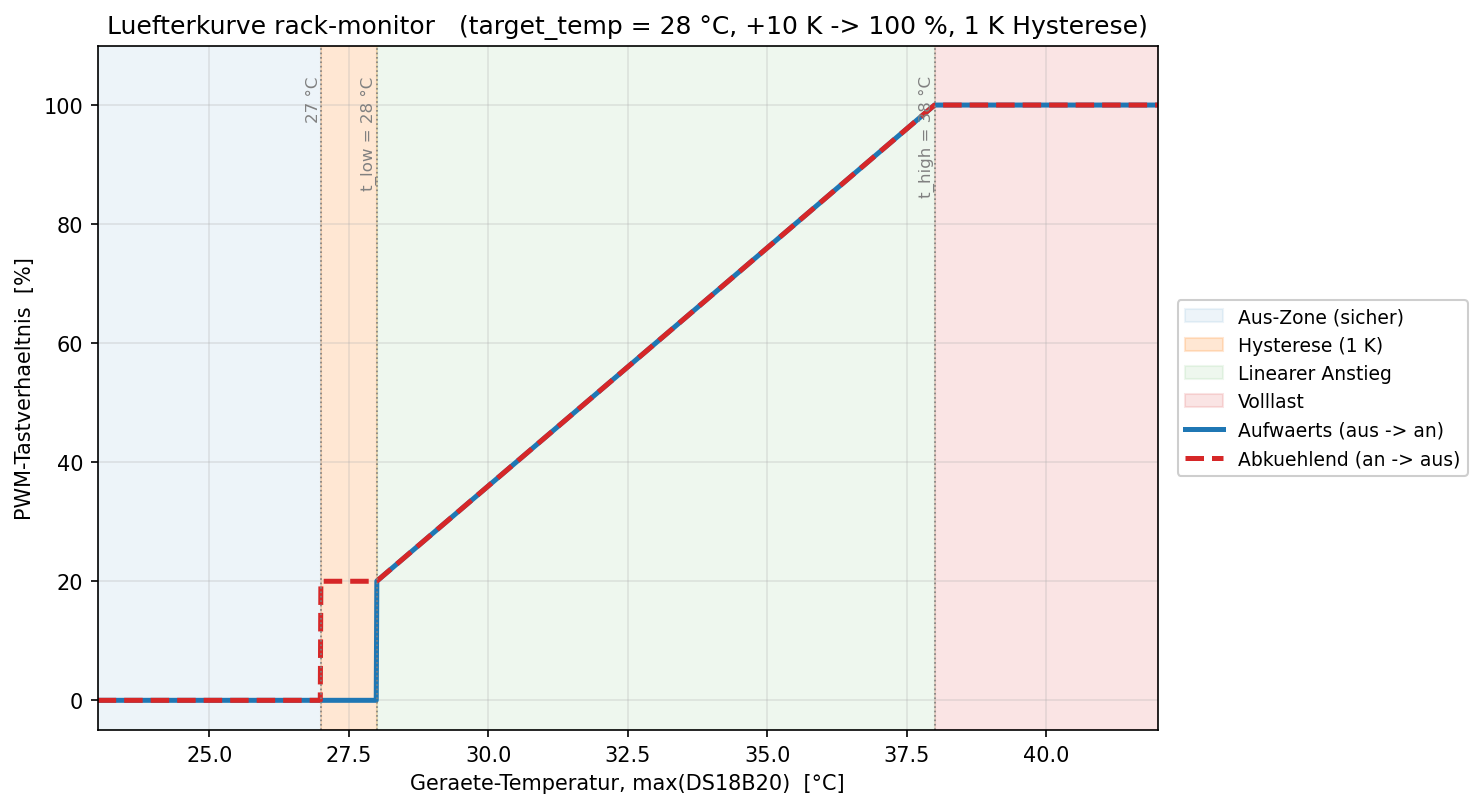
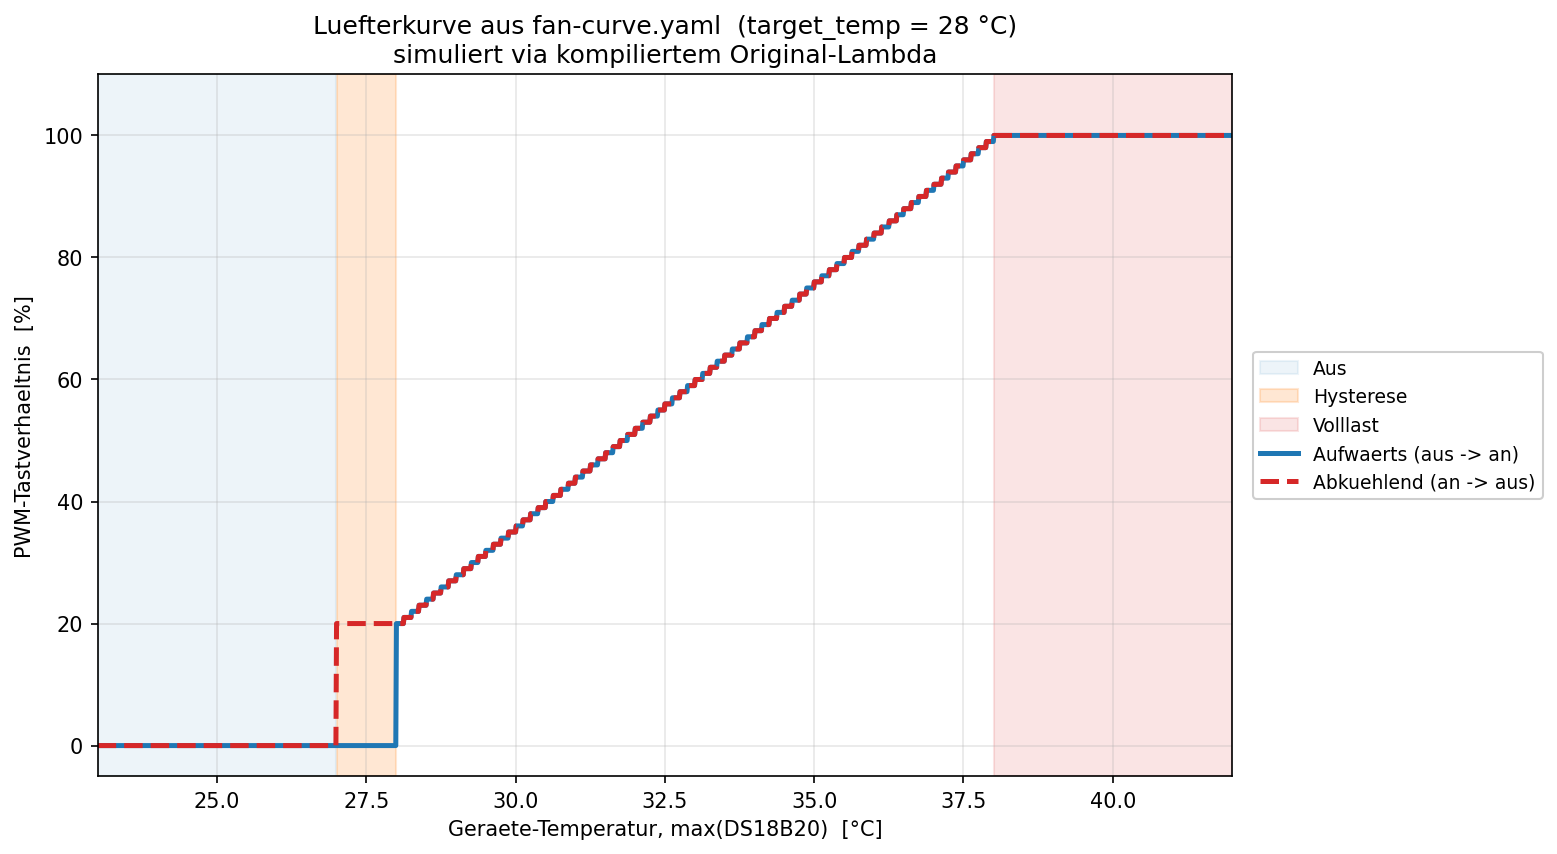
sim-compilierter-c++-code

diff --git a/esphome/temperature-simulator/fan-curve-plot.py b/esphome/temperature-simulator/fan-curve-plot.py
@@ -2,86 +2,239 @@
 """
 fan_curve_plot.py
 -----------------
-Visualisiert die Luefterkurve aus rack-monitor.yaml (interval/lambda).
-Reproduziert die ESPHome-C++-Logik 1:1 in Python und plottet
-PWM-Tastverhaeltnis (%) gegen die maximale DS18B20-Temperatur.
+Simuliert die Luefterkurve aus rack-monitor.yaml, indem der ORIGINAL-Lambda-
+Code-Block zur Laufzeit als C++-Shared-Library kompiliert und ueber ctypes
+aufgerufen wird. Keine Python-Reimplementation der Regel-Logik.
 
-Besonderheit: Die 1-K-Hysterese unterhalb t_low ist zustandsabhaengig.
-Es werden daher zwei Kurven gezeichnet:
-  - Aufwaerts:  aus dem Aus-Zustand kommend
-  - Abkuehlend: aus dem laufenden Zustand kommend
+Workflow:
+  1. YAML laden, lambda-String aus 'interval' extrahieren
+  2. In ein C++-Shim einbetten, das die ESPHome-API mockt
+  3. Mit g++ zu .so kompilieren
+  4. ctypes laedt die Lib, sweep ueber Temperaturen, Plot
 
-Quelle der Regel-Logik: fan_curve.yaml (Block 'interval').
+Abhaengigkeiten: PyYAML, numpy, matplotlib, ein C++17-Compiler (g++ oder clang++).
 """
 
 from __future__ import annotations
 
 import argparse
+import ctypes
+import shutil
+import subprocess
+import sys
+import tempfile
+import textwrap
+from pathlib import Path
 
 import matplotlib.pyplot as plt
 import numpy as np
+import yaml
 
 
-# ---- Feste Parameter der YAML (nicht ueber HA aenderbar) --------------------
-DELTA_T = 10.0      # Spannweite linearer Bereich (t_high = t_low + DELTA_T)
-HYSTERESIS = 1.0    # K Hysterese unterhalb t_low
-MIN_SPEED = 0.20    # 20 % Mindestanlauf
-MAX_SPEED = 1.00    # 100 % Volllast
+# ============================================================================
+# C++-Shim: mockt die ESPHome-API genau soweit wie das Lambda sie verwendet.
+# Erweitern, sobald das Lambda neue ESPHome-Aufrufe nutzt.
+# ============================================================================
+SHIM_TEMPLATE = r"""
+// Auto-generiert von fan_curve_plot.py - nicht von Hand editieren.
+#include <math.h>   // isnan() als Makro im globalen Namespace
+#include <cstddef>
+
+extern "C" {
+
+// ---- ESPHome-Mock-Typen ----------------------------------------------------
+struct Sensor { float state; };
+struct Switch { bool  state; };
+struct Number { float state; };
+
+struct Fan;
+struct FanCall {
+    Fan* target;
+    int  op;          // 0 = turn_on, 1 = turn_off
+    int  speed_pct;   // -1 = nicht gesetzt
+    FanCall& set_speed(int s)   { speed_pct = s; return *this; }
+    FanCall& set_speed(float f) { speed_pct = (int)(f * 100.0f); return *this; }
+    void perform();
+};
+
+struct Fan {
+    bool state;
+    int  speed_pct;
+    FanCall turn_on()  { return FanCall{this, 0, -1}; }
+    FanCall turn_off() { return FanCall{this, 1,  0}; }
+};
+
+void FanCall::perform() {
+    if (op == 0) {
+        target->state = true;
+        if (speed_pct >= 0) target->speed_pct = speed_pct;
+    } else {
+        target->state = false;
+        target->speed_pct = 0;
+    }
+}
+
+// ---- IDs aus der YAML ------------------------------------------------------
+static Switch auto_mode;
+static Sensor temp_zone1;
+static Sensor temp_zone2;
+static Number target_temp;
+static Fan    fan1;
+static Fan    fan2;
+
+// id(x) in der YAML wird zu einem Referenz-Verweis auf die Mock-Instanz
+#define id(x) (x)
+
+// ---- Simulations-API (von Python aus aufgerufen) ---------------------------
+void sim_set_inputs(int auto_on, float t1, float t2, float t_target,
+                    int fan1_running, int fan1_pct,
+                    int fan2_running, int fan2_pct) {
+    auto_mode.state   = (auto_on != 0);
+    temp_zone1.state  = t1;
+    temp_zone2.state  = t2;
+    target_temp.state = t_target;
+    fan1.state        = (fan1_running != 0);
+    fan1.speed_pct    = fan1_pct;
+    fan2.state        = (fan2_running != 0);
+    fan2.speed_pct    = fan2_pct;
+}
+
+int sim_get_fan1_state() { return fan1.state ? 1 : 0; }
+int sim_get_fan1_pct()   { return fan1.speed_pct; }
+int sim_get_fan2_state() { return fan2.state ? 1 : 0; }
+int sim_get_fan2_pct()   { return fan2.speed_pct; }
+
+// ---- Hier wird das ORIGINAL-Lambda eingebettet -----------------------------
+void sim_run() {
+    // ====== BEGIN ORIGINAL LAMBDA (aus YAML) ======
+__LAMBDA_BODY__
+    // ====== END ORIGINAL LAMBDA ==================
+}
+
+}  // extern "C"
+"""
 
 
-def fan_speed(t: float, t_low: float, running: bool) -> float:
-    """1:1-Pendant zum ESPHome-Lambda. Rueckgabe: PWM-Anteil [0.0 .. 1.0]."""
-    t_high = t_low + DELTA_T
+# ============================================================================
+# YAML einlesen und Lambda-Block extrahieren
+# ============================================================================
+def extract_lambda(yaml_path: Path) -> str:
+    """Findet den ersten 'lambda'-Eintrag innerhalb von 'interval'."""
+    with yaml_path.open(encoding="utf-8") as f:
+        data = yaml.safe_load(f)
 
-    if t < t_low - HYSTERESIS:
-        return 0.0
-    if t < t_low:
-        # Hysterese-Zone: laeuft weiter, wenn schon an; bleibt aus, wenn aus
-        return MIN_SPEED if running else 0.0
-    if t >= t_high:
-        return MAX_SPEED
-    return MIN_SPEED + (t - t_low) / DELTA_T * (MAX_SPEED - MIN_SPEED)
+    if not isinstance(data, dict) or "interval" not in data:
+        raise SystemExit(f"Keine 'interval'-Sektion in {yaml_path} gefunden.")
+
+    for entry in data["interval"]:
+        for action in entry.get("then", []) or []:
+            if isinstance(action, dict) and "lambda" in action:
+                return action["lambda"]
+
+    raise SystemExit(f"Keine 'lambda'-Action in 'interval' in {yaml_path} gefunden.")
 
 
-def plot_curve(t_low: float, outfile: str) -> None:
-    t_high = t_low + DELTA_T
-    temps = np.linspace(t_low - 5.0, t_high + 4.0, 1801)
+# ============================================================================
+# C++ generieren und kompilieren
+# ============================================================================
+def compile_lambda(lambda_body: str, build_dir: Path, verbose: bool = False) -> Path:
+    indented = textwrap.indent(lambda_body.rstrip(), "    ")
+    src_code = SHIM_TEMPLATE.replace("__LAMBDA_BODY__", indented)
 
-    pwm_warming = np.array([fan_speed(t, t_low, running=False) for t in temps]) * 100
-    pwm_cooling = np.array([fan_speed(t, t_low, running=True) for t in temps]) * 100
+    src = build_dir / "fan_curve_shim.cpp"
+    so  = build_dir / "fan_curve_shim.so"
+    src.write_text(src_code, encoding="utf-8")
 
-    fig, ax = plt.subplots(figsize=(10, 5.5))
+    cxx = shutil.which("g++") or shutil.which("clang++")
+    if cxx is None:
+        raise SystemExit("Kein C++-Compiler gefunden. Bitte g++ oder clang++ installieren.")
 
-    # Hintergrund-Zonen
-    ax.axvspan(temps[0], t_low - HYSTERESIS, alpha=0.08, color="tab:blue",
-               label="Aus-Zone (sicher)")
-    ax.axvspan(t_low - HYSTERESIS, t_low, alpha=0.18, color="tab:orange",
-               label=f"Hysterese ({HYSTERESIS:.0f} K)")
-    ax.axvspan(t_low, t_high, alpha=0.08, color="tab:green",
-               label="Linearer Anstieg")
-    ax.axvspan(t_high, temps[-1], alpha=0.12, color="tab:red",
-               label="Volllast")
+    cmd = [cxx, "-O2", "-std=c++17", "-Wall", "-fPIC", "-shared",
+           str(src), "-o", str(so)]
+    proc = subprocess.run(cmd, capture_output=True, text=True)
 
-    # Kurven
-    ax.plot(temps, pwm_warming, color="#1f77b4", lw=2.4,
+    if proc.returncode != 0:
+        print("Kompilierfehler:", file=sys.stderr)
+        print(proc.stderr, file=sys.stderr)
+        print(f"\nGenerierter Quelltext liegt in {src}", file=sys.stderr)
+        raise SystemExit(1)
+
+    if verbose and proc.stderr:
+        print(proc.stderr, file=sys.stderr)
+
+    return so
+
+
+# ============================================================================
+# Ctypes-Wrapper um die kompilierte Lib
+# ============================================================================
+class LambdaSim:
+    def __init__(self, so_path: Path) -> None:
+        self.lib = ctypes.CDLL(str(so_path))
+        self.lib.sim_set_inputs.argtypes = [
+            ctypes.c_int, ctypes.c_float, ctypes.c_float, ctypes.c_float,
+            ctypes.c_int, ctypes.c_int, ctypes.c_int, ctypes.c_int,
+        ]
+        self.lib.sim_set_inputs.restype = None
+        self.lib.sim_run.argtypes = []
+        self.lib.sim_run.restype = None
+        for name in ("sim_get_fan1_state", "sim_get_fan1_pct",
+                     "sim_get_fan2_state", "sim_get_fan2_pct"):
+            getattr(self.lib, name).restype = ctypes.c_int
+
+    def step(self, t1: float, t2: float, t_target: float,
+             fan_running: bool, fan_pct: int = 50,
+             auto_on: bool = True) -> tuple:
+        self.lib.sim_set_inputs(
+            1 if auto_on else 0,
+            ctypes.c_float(t1), ctypes.c_float(t2), ctypes.c_float(t_target),
+            1 if fan_running else 0, fan_pct,
+            1 if fan_running else 0, fan_pct,
+        )
+        self.lib.sim_run()
+        return bool(self.lib.sim_get_fan1_state()), int(self.lib.sim_get_fan1_pct())
+
+
+# ============================================================================
+# Plot
+# ============================================================================
+def plot(temps: np.ndarray, warming_pct: np.ndarray, cooling_pct: np.ndarray,
+         t_target: float, outfile: Path, yaml_path: Path) -> None:
+    fig, ax = plt.subplots(figsize=(10.5, 5.8))
+
+    aus_mask  = (warming_pct == 0) & (cooling_pct == 0)
+    hyst_mask = (warming_pct == 0) & (cooling_pct > 0)
+    full_mask = (warming_pct >= 100) & (cooling_pct >= 100)
+
+    def shade(mask: np.ndarray, color: str, alpha: float, label) -> None:
+        if not mask.any():
+            return
+        idx = np.where(mask)[0]
+        start = idx[0]
+        prev = idx[0]
+        for i in idx[1:]:
+            if i != prev + 1:
+                ax.axvspan(temps[start], temps[prev], alpha=alpha, color=color,
+                           label=label)
+                label = None
+                start = i
+            prev = i
+        ax.axvspan(temps[start], temps[prev], alpha=alpha, color=color, label=label)
+
+    shade(aus_mask,  "tab:blue",   0.08, "Aus")
+    shade(hyst_mask, "tab:orange", 0.18, "Hysterese")
+    shade(full_mask, "tab:red",    0.12, "Volllast")
+
+    ax.plot(temps, warming_pct, color="#1f77b4", lw=2.4,
             label="Aufwaerts (aus -> an)")
-    ax.plot(temps, pwm_cooling, color="#d62728", lw=2.4, ls="--",
+    ax.plot(temps, cooling_pct, color="#d62728", lw=2.4, ls="--",
             label="Abkuehlend (an -> aus)")
-
-    # Schwellenmarken
-    for tx, label in ((t_low - HYSTERESIS, f"{t_low - HYSTERESIS:.0f} °C"),
-                      (t_low, f"t_low = {t_low:.0f} °C"),
-                      (t_high, f"t_high = {t_high:.0f} °C")):
-        ax.axvline(tx, color="gray", lw=0.8, ls=":")
-        ax.text(tx, 105, label, rotation=90, va="top", ha="right",
-                fontsize=8, color="gray")
 
     ax.set_xlabel("Geraete-Temperatur, max(DS18B20)  [°C]")
     ax.set_ylabel("PWM-Tastverhaeltnis  [%]")
     ax.set_title(
-        f"Luefterkurve rack-monitor   "
-        f"(target_temp = {t_low:.0f} °C, +{DELTA_T:.0f} K -> 100 %, "
-        f"{HYSTERESIS:.0f} K Hysterese)"
+        f"Luefterkurve aus {yaml_path.name}  (target_temp = {t_target:.0f} °C)\n"
+        f"simuliert via kompiliertem Original-Lambda"
     )
     ax.set_xlim(temps[0], temps[-1])
     ax.set_ylim(-5, 110)
@@ -95,20 +248,69 @@ def plot_curve(t_low: float, outfile: str) -> None:
     print(f"Plot gespeichert: {outfile}")
 
 
+# ============================================================================
+# Main
+# ============================================================================
 def main() -> None:
-    parser = argparse.ArgumentParser(description="Plot der Luefterkurve aus rack-monitor.yaml")
+    parser = argparse.ArgumentParser(
+        description="Simuliert die Luefterkurve aus der ESPHome-YAML, "
+                    "indem das Original-Lambda als C++ kompiliert und gegen "
+                    "einen Temperatur-Sweep ausgefuehrt wird."
+    )
+    parser.add_argument("--yaml", type=Path, default=Path("esphome/temperature-simulator/fan-curve.yaml"),
+                        help="Pfad zur YAML (auch rack-monitor.yaml moeglich). "
+                             "Default: fan_curve.yaml")
     parser.add_argument("--target-temp", type=float, default=28.0,
-                        help="Einschaltschwelle t_low in °C (HA-Slider, 25..45). Default: 28")
-    parser.add_argument("-o", "--output", default="esphome/temperature-simulator/fan_curve.png",
-                        help="Output-Dateiname (PNG). Default: fan_curve.png")
-    parser.add_argument("--show", action="store_true",
-                        help="Plot interaktiv anzeigen")
+                        help="HA-Slider target_temp in °C (25..45). Default: 28")
+    parser.add_argument("--t-min", type=float, default=None,
+                        help="Untere Temperatur des Sweeps. Default: target_temp - 5")
+    parser.add_argument("--t-max", type=float, default=None,
+                        help="Obere Temperatur des Sweeps. Default: target_temp + 14")
+    parser.add_argument("--steps", type=int, default=1801,
+                        help="Anzahl Sweep-Punkte. Default: 1801 (~0.01 °C)")
+    parser.add_argument("-o", "--output", type=Path, default=Path("esphome/temperature-simulator/fan_curve.png"))
+    parser.add_argument("--show", action="store_true")
+    parser.add_argument("--keep-build", action="store_true",
+                        help="Build-Artefakte behalten (zur Inspektion)")
+    parser.add_argument("-v", "--verbose", action="store_true")
     args = parser.parse_args()
 
+    if not args.yaml.exists():
+        raise SystemExit(f"YAML-Datei nicht gefunden: {args.yaml}")
     if not 25.0 <= args.target_temp <= 45.0:
-        parser.error("target-temp muss im Bereich der HA-Number-Entitaet liegen (25..45 °C)")
+        parser.error("--target-temp ausserhalb 25..45 °C (HA-Number-Range)")
 
-    plot_curve(args.target_temp, args.output)
+    t_min = args.t_min if args.t_min is not None else args.target_temp - 5.0
+    t_max = args.t_max if args.t_max is not None else args.target_temp + 14.0
+
+    lambda_body = extract_lambda(args.yaml)
+    n_lines = lambda_body.count("\n") + 1
+    print(f"Lambda extrahiert aus {args.yaml}: {n_lines} Zeilen")
+
+    if args.keep_build:
+        build_dir = Path(tempfile.mkdtemp(prefix="fan_curve_build_"))
+        print(f"Build-Verzeichnis: {build_dir}")
+        so = compile_lambda(lambda_body, build_dir, verbose=args.verbose)
+        _do_sweep_and_plot(LambdaSim(so), args, t_min, t_max)
+    else:
+        with tempfile.TemporaryDirectory(prefix="fan_curve_build_") as tmp:
+            so = compile_lambda(lambda_body, Path(tmp), verbose=args.verbose)
+            _do_sweep_and_plot(LambdaSim(so), args, t_min, t_max)
+
+
+def _do_sweep_and_plot(sim: LambdaSim, args: argparse.Namespace,
+                       t_min: float, t_max: float) -> None:
+    temps = np.linspace(t_min, t_max, args.steps)
+    warming = np.empty(args.steps, dtype=int)
+    cooling = np.empty(args.steps, dtype=int)
+
+    for i, t in enumerate(temps):
+        _, warming[i] = sim.step(float(t), float(t), args.target_temp,
+                                 fan_running=False)
+        _, cooling[i] = sim.step(float(t), float(t), args.target_temp,
+                                 fan_running=True, fan_pct=20)
+
+    plot(temps, warming, cooling, args.target_temp, args.output, args.yaml)
     if args.show:
         plt.show()
 